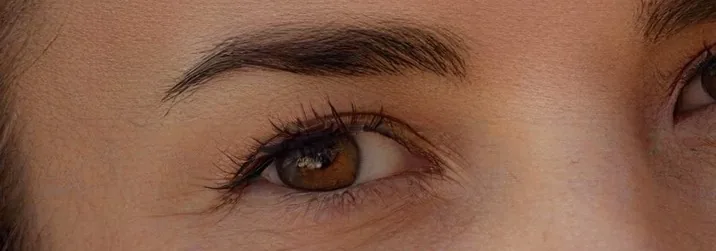
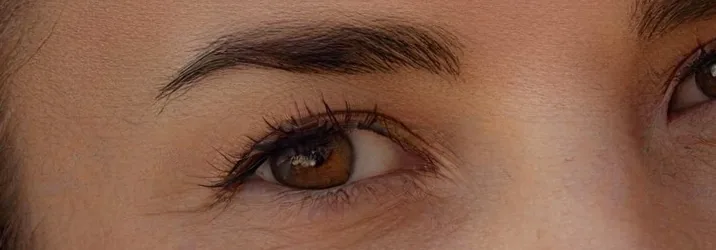
Update hero headline to UX/UI · PRODUCT DESIGN
New Figma mask group 58:154 (vector 58:155, photo 58:156): re-exported
the mask SVG and the hero photo crop for the photo's new position
(bounding box -889, -4806); rotation and plus-lighter unchanged.
Accessible text is now "Anastasiia Cheban — UX/UI and product design".
Stale 37:10/37:11/37:12 references removed.

diff --git a/src/data/figma-layout.generated.ts b/src/data/figma-layout.generated.ts
@@ -2,9 +2,9 @@
 
 export const heroPhotoLayout = {
   "nodeIds": {
-    "maskGroup": "37:10",
-    "mask": "37:11",
-    "photo": "37:12"
+    "maskGroup": "58:154",
+    "mask": "58:155",
+    "photo": "58:156"
   },
   "view": {
     "width": 1432,
@@ -13,26 +13,26 @@ export const heroPhotoLayout = {
   "rotationDeg": 10.41,
   "blendMode": "plus-lighter",
   "box": {
-    "x": 65.0095,
-    "y": 204.8604,
+    "x": 65.3142,
+    "y": 203.962,
     "width": 1468.3594,
-    "height": 514.7461
+    "height": 512.6953
   },
   "boxPercent": {
-    "left": 4.5398,
-    "top": 85.3585,
+    "left": 4.561,
+    "top": 84.9842,
     "width": 102.5391,
-    "height": 214.4775
+    "height": 213.623
   },
   "originPercent": {
-    "x": 175.0698,
-    "y": -71.7131
+    "x": 174.2318,
+    "y": -72.8
   },
   "sourceCrop": {
-    "left": 112,
-    "top": 2228,
+    "left": 118,
+    "top": 2230,
     "width": 716,
-    "height": 251,
+    "height": 250,
     "sourceWidth": 2731,
     "sourceHeight": 4096,
     "figmaPxPerSourcePx": 2.0508

diff --git a/src/components/Hero/Hero.tsx b/src/components/Hero/Hero.tsx
@@ -6,8 +6,8 @@ import heroPhoto from '../../assets/hero-photo.webp'
 import heroMask from '../../assets/hero-mask.svg'
 import './Hero.css'
 
-// Figma composition (37:10): photo rotated about the layer centre, masked by the
-// "UX/UI DESIGNER" vector, blended plus-lighter. Numbers come from build-images.mjs.
+// Figma composition (58:154): photo rotated about the layer centre, masked by the
+// "UX/UI · PRODUCT DESIGN" vector, blended plus-lighter. Numbers come from build-images.mjs.
 const photoStyle = {
   '--photo-left': `${photo.boxPercent.left}%`,
   '--photo-top': `${photo.boxPercent.top}%`,
@@ -30,7 +30,7 @@ export default function Hero() {
       <Nav />
       <h1 className="hero__title">
         <span className="sr-only">
-          {owner.name}, {owner.role}
+          {owner.name} — {owner.role}
         </span>
         <span className="hero__name" aria-hidden="true">
           {letters.map((letter, index) => (

diff --git a/src/components/Hero/Hero.css b/src/components/Hero/Hero.css
@@ -9,7 +9,7 @@
   color: var(--color-cream);
 }
 
-/* Figma 37:8 — name above the masked "UX/UI DESIGNER" */
+/* Figma 37:8 — name above the masked "UX/UI · PRODUCT DESIGN" */
 .hero__title {
   display: flex;
   flex-direction: column;
@@ -32,7 +32,7 @@
   width: 0.25em;
 }
 
-/* Figma 37:10 — the vector is the mask; the ink background is what the photo blends onto. */
+/* Figma 58:154 — the vector is the mask; the ink background is what the photo blends onto. */
 .hero__role {
   position: relative;
   display: block;

diff --git a/src/data/site.ts b/src/data/site.ts
@@ -35,5 +35,5 @@ export const contactLinks = {
 
 export const owner = {
   name: 'Anastasiia Cheban',
-  role: 'UX/UI designer',
+  role: 'UX/UI and product design',
 }

diff --git a/CLAUDE.md b/CLAUDE.md
@@ -40,7 +40,7 @@ fileKey `KrK3uJDPRwV4ogpCkaWoiS`, page frame `37:2` (1512 × 3384). No Figma var
 | Node | What |
 |---|---|
 | 37:3 / 37:13 | Hero / nav |
-| 37:11 + 37:12 | "UX/UI DESIGNER" vector mask over rotated photo (plus-lighter) |
+| 58:154 (58:155 + 58:156) | "UX/UI · PRODUCT DESIGN" vector mask over rotated photo (plus-lighter) |
 | 37:18 / 37:27 / 37:31 | Works / project list / visual panel |
 | 39:110 | Project 01 phones composite |
 | 40:125 | Pink CTA button (120px, arrow 40:126) |
